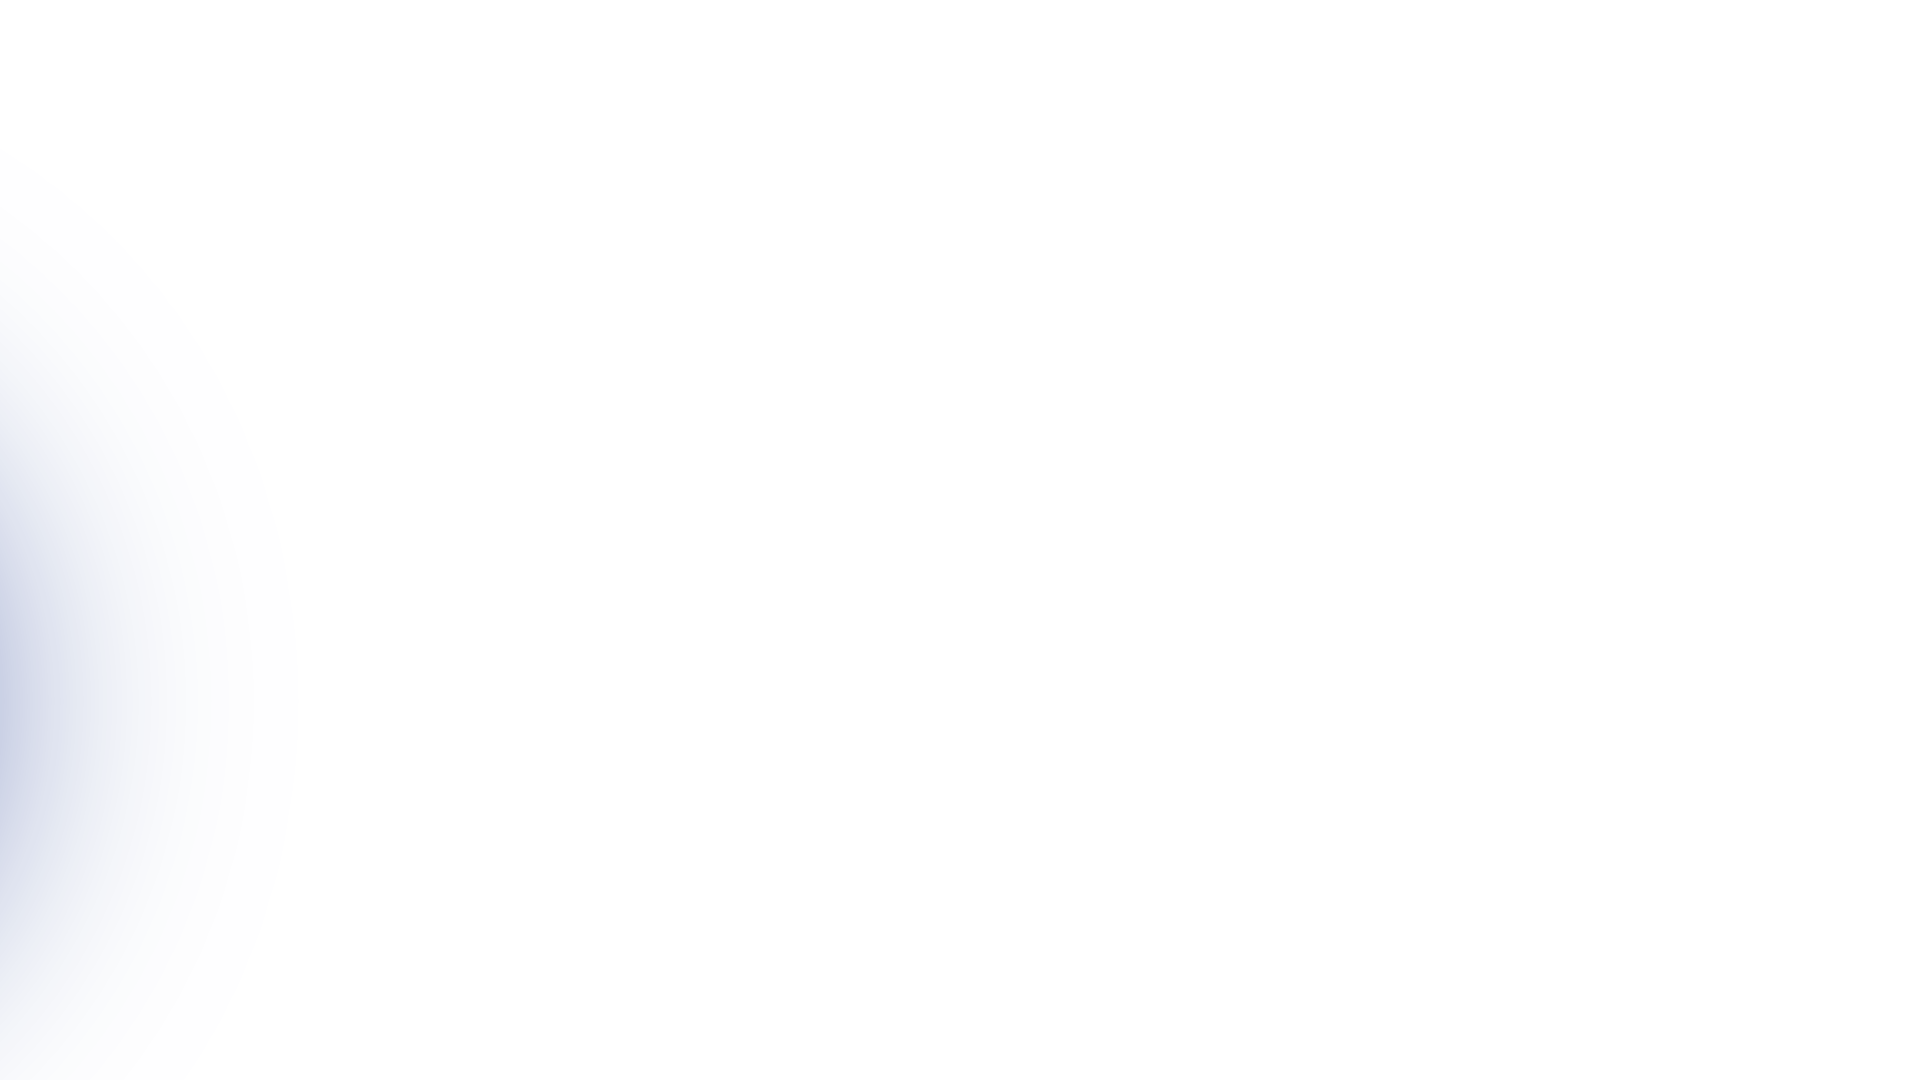
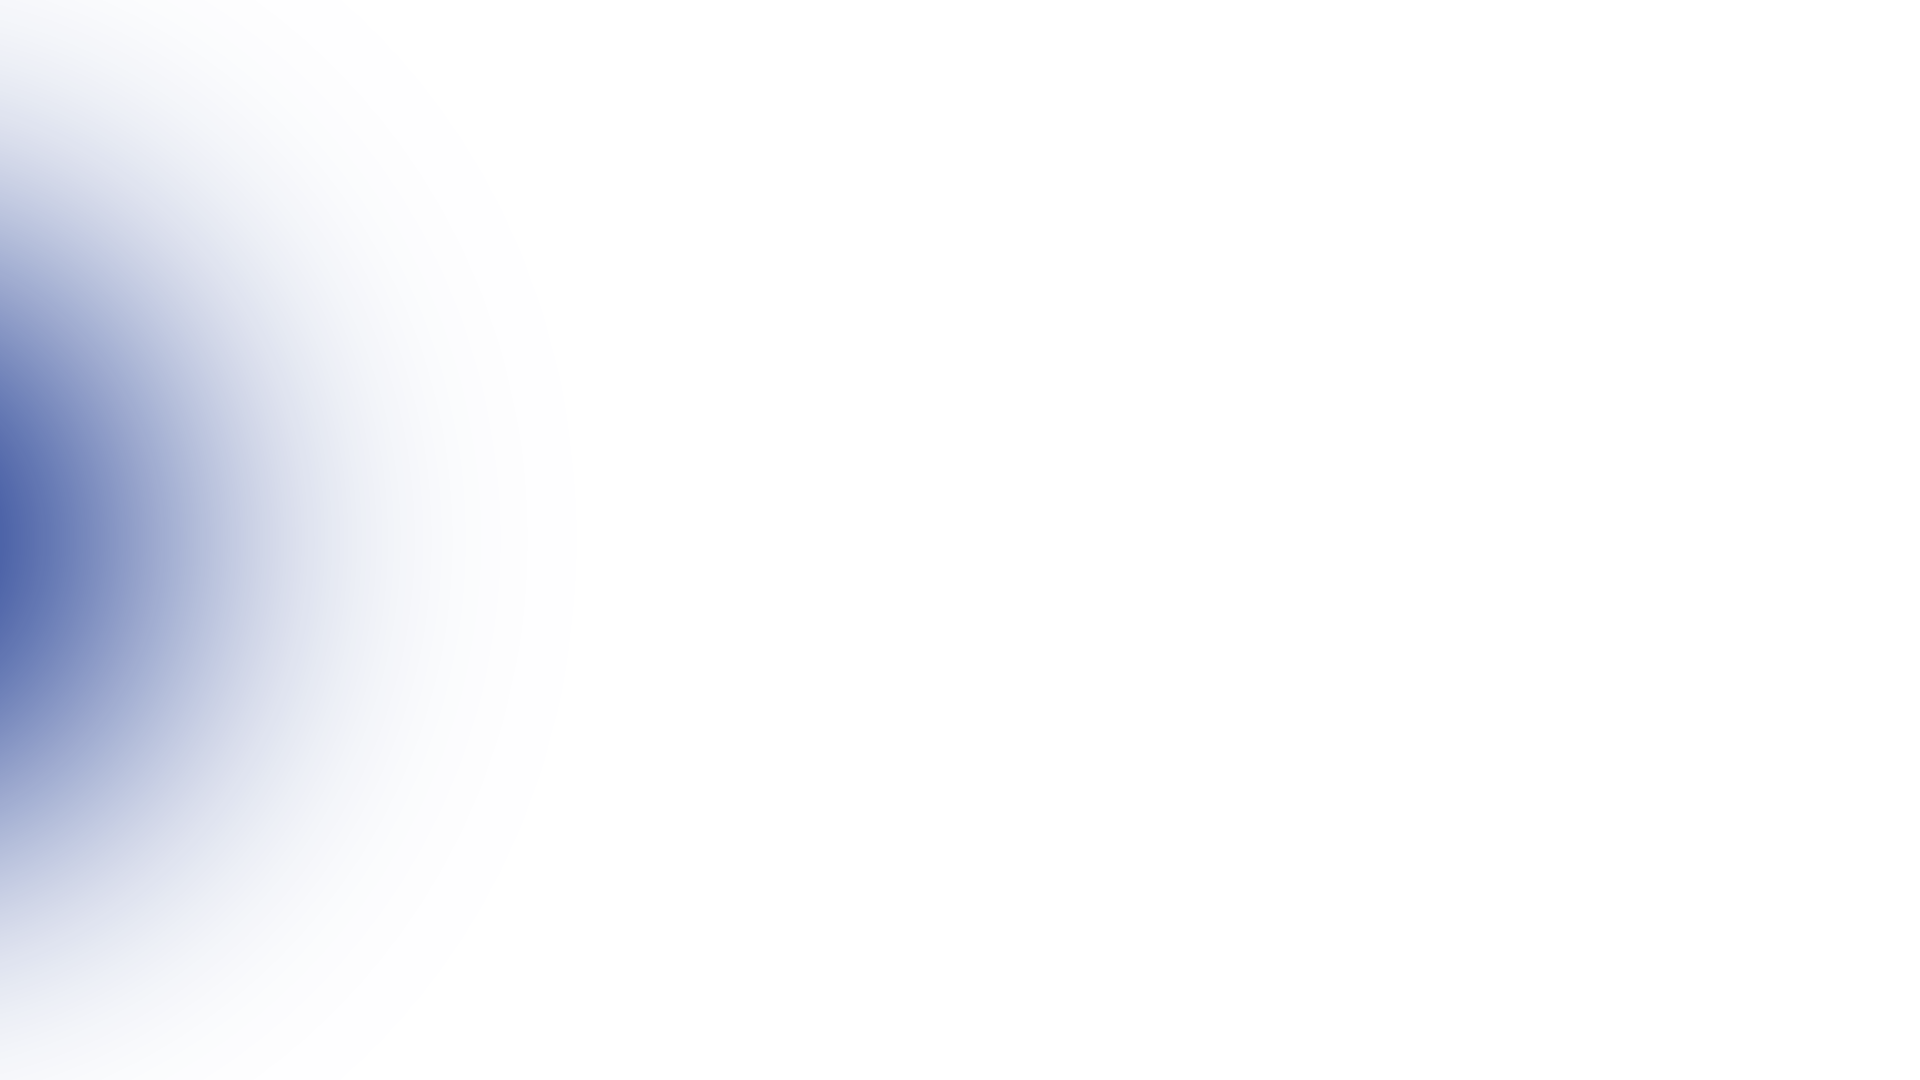
design update

Changed region(s): [[0.0, 0.0611, 0.1875, 0.8556]]

diff --git a/src/components/Skills.js b/src/components/Skills.js
@@ -9,6 +9,7 @@ import reduxIcon from "../assets/img/redux-icon.svg";
 import djangoIcon from "../assets/img/django-icon.svg";
 import mongodbIcon from "../assets/img/mongodb-icon.svg";
 import postgresqlIcon from "../assets/img/postgresql-icon.svg";
+import colorSharp from "../assets/img/color-sharp2.png";
 
 export const Skills = () => {
   const responsive = {
@@ -38,9 +39,13 @@ export const Skills = () => {
             <div className="skill-box wow zoomIn">
               <h2>Skills</h2>
               <p>
-              I am proficient in a wide range of technologies for web application development, including server-side and client-side frameworks, databases, and programming languages.
-              <br></br>
-              This knowledge of web application development and data management enables the creation of scalable and efficient applications.
+                I am proficient in a wide range of technologies for web
+                application development, including server-side and client-side
+                frameworks, databases, and programming languages.
+                <br></br>
+                This knowledge of web application development and data
+                management enables the creation of scalable and efficient
+                applications.
               </p>
 
               <Carousel
@@ -87,6 +92,7 @@ export const Skills = () => {
           </Col>
         </Row>
       </Container>
+      <img className="background-image-left" src={colorSharp} alt="Image" />
     </section>
   );
 };

diff --git a/src/App.css b/src/App.css
@@ -304,13 +304,18 @@ nav.navbar .navbar-toggler[aria-expanded="true"] .navbar-toggler-icon {
   margin: 0 auto 15px auto;
 }
 
+.background-image-left {
+  top: 28%;
+  position: absolute;
+  bottom: 0;
+  width: 40%;
+  z-index: -4;
+}
+
 /* projects css */
 .project {
   padding: 80px 0;
   position: relative;
-  background-image: url("./assets/img/color-sharp2.png");
-  background-size: cover;
-  background-repeat: no-repeat;
 }
 .project a {
   text-decoration: none;
